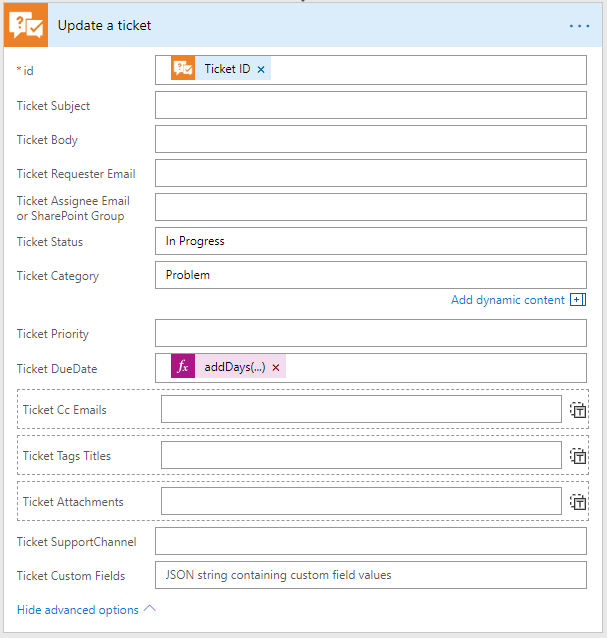
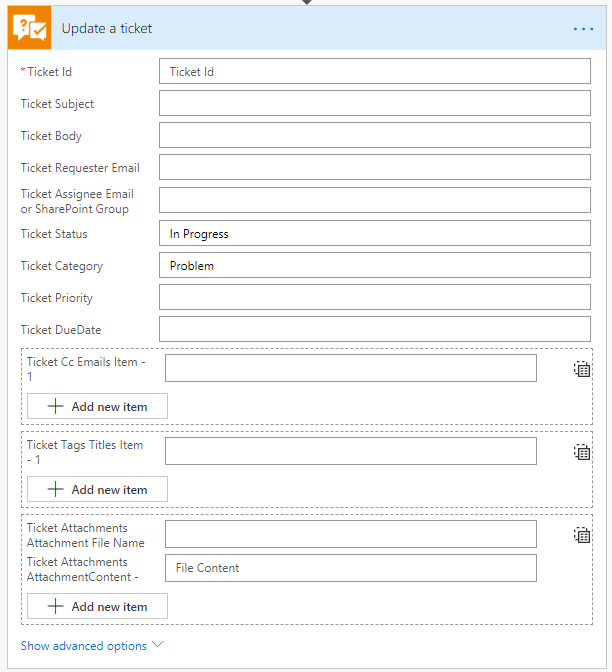
Update ticket: new screenshot+added missing parameter

Changed region(s): [[0.0, 0.0, 1.0, 1.0]]

diff --git a/Online/API/flow-actions.rst b/Online/API/flow-actions.rst
@@ -355,6 +355,9 @@ Gets a ticket by ID and updates it. Returns updated ticket.
     *  -  Parameter
        -  Description
        -  Example
+    *  -  Ticket Id
+       -  Ticket identifier
+       -  15  
     *  -  Ticket Subject
        -  Subject
        -  Printer issues
